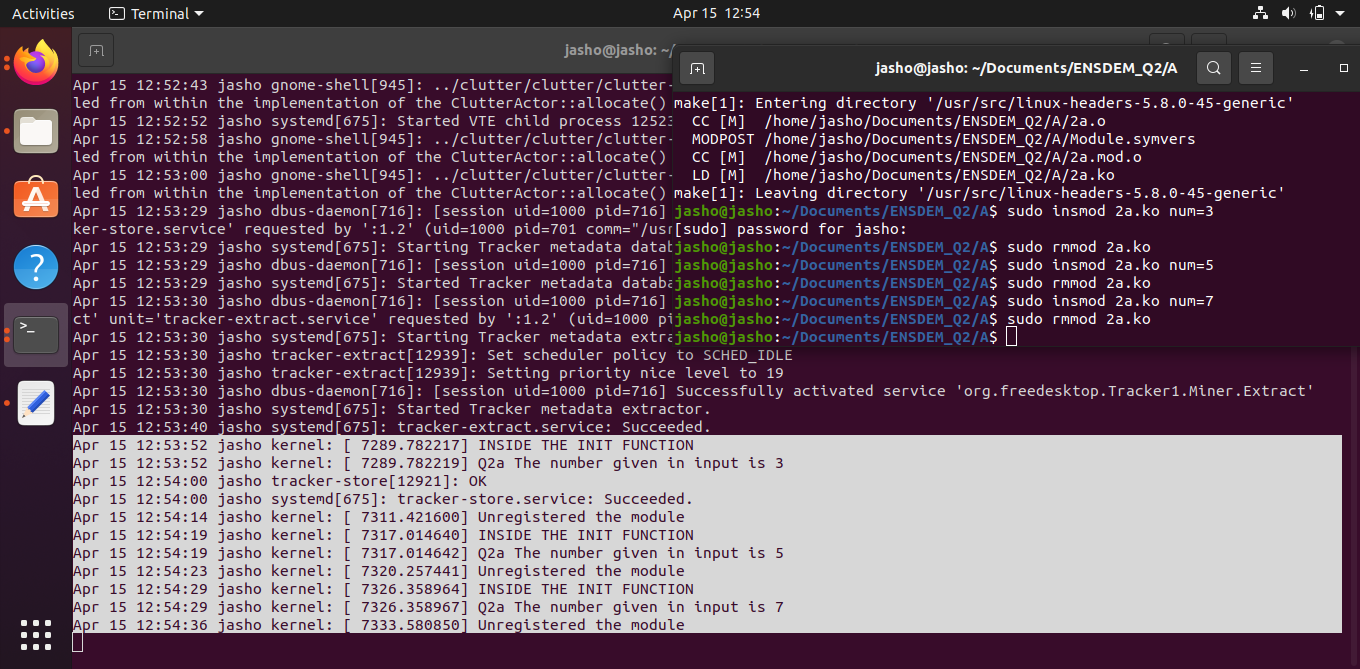
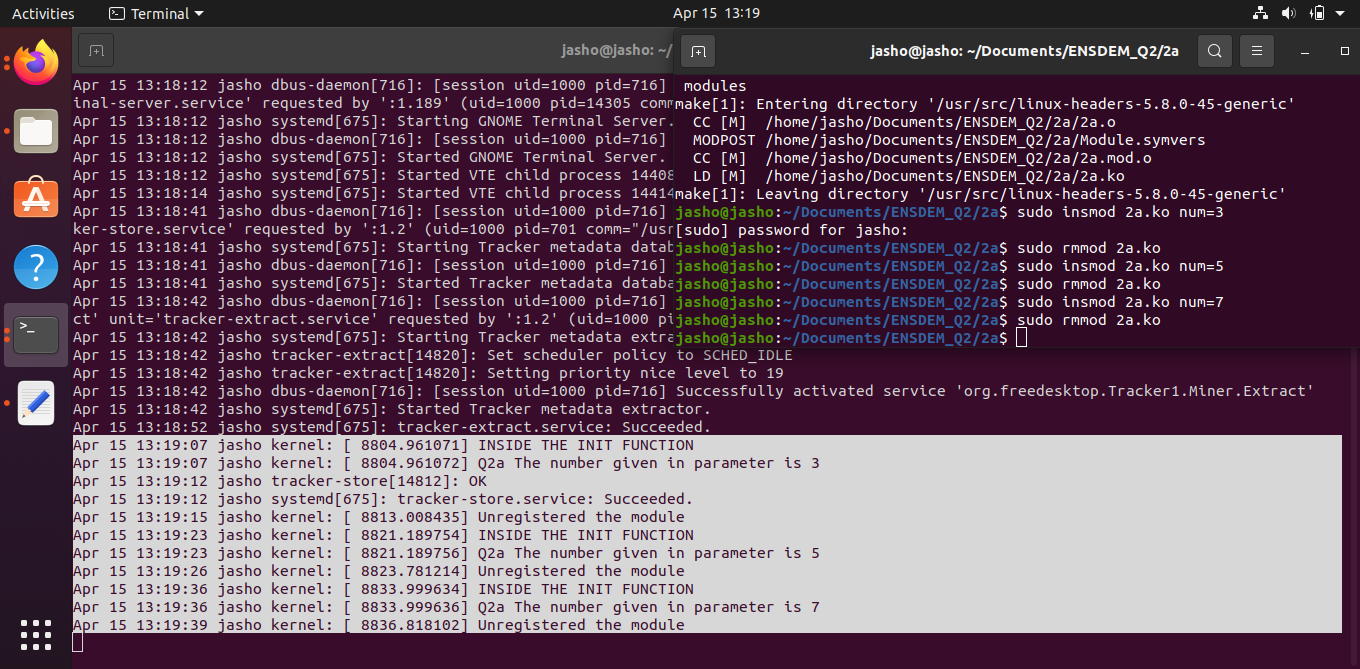
Add files via upload

diff --git a/2a/2a.c b/2a/2a.c
@@ -12,7 +12,7 @@ module_param(num, int, S_IRUGO);
 int init_module(void)
 {
 	printk(KERN_INFO "INSIDE THE INIT FUNCTION");
-	printk(KERN_INFO "Q2a The number given in input is %d\n",num);
+	printk(KERN_INFO "Q2a The number given in parameter is %d\n",num);
 	return 0;
 }
 
